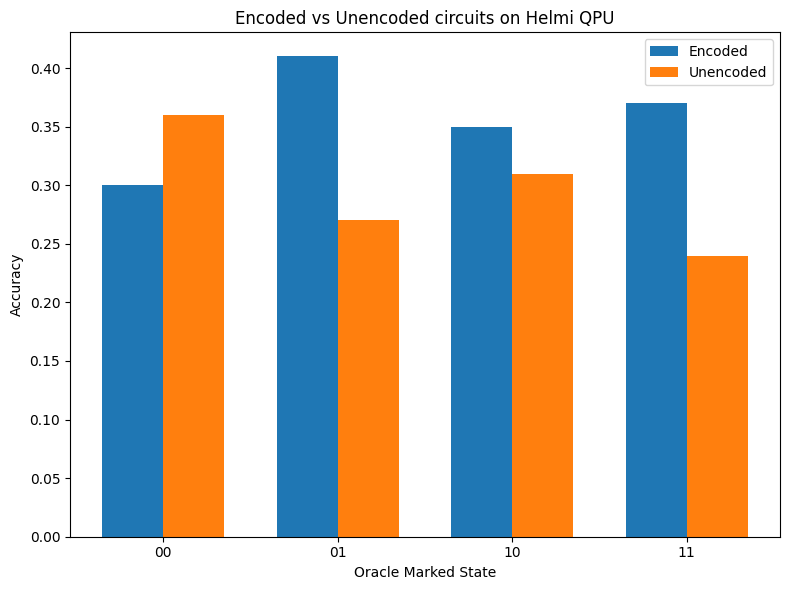
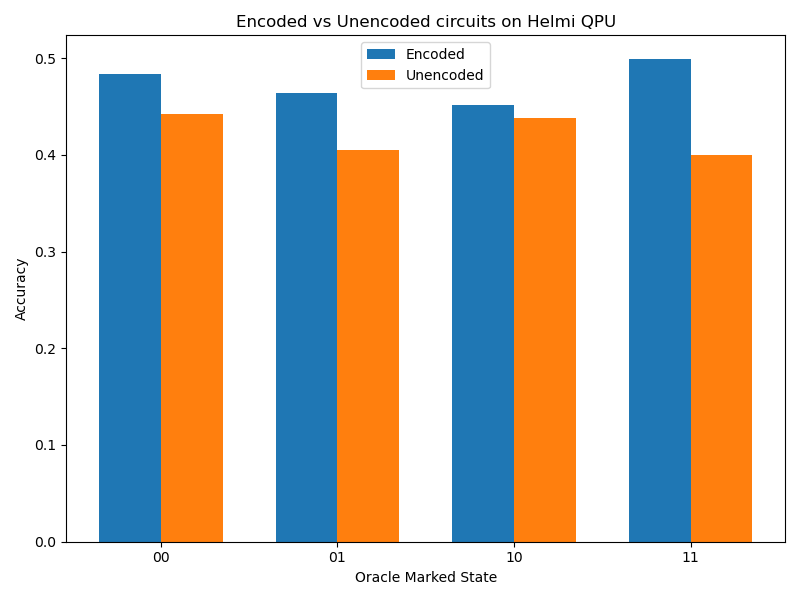
modify oracle

Changed region(s): [[0.0, 0.0, 1.0, 0.9763]]

diff --git a/grover_circuit_generator_2q.py b/grover_circuit_generator_2q.py
@@ -170,8 +170,8 @@ def oracle(circ, bitstring):
         circ.x(2)
         circ.barrier()
 
-        circ.z(1)
-        circ.z(2)
+        #circ.z(1)
+        #circ.z(2)
         circ.rz(np.pi / 2, 0)
         circ.rz(np.pi / 2, 1)
         circ.rz(np.pi / 2, 2)
@@ -186,8 +186,8 @@ def oracle(circ, bitstring):
         circ.x(0)
         circ.x(2)
         circ.barrier()
-        circ.z(1)
-        circ.z(2)
+        #circ.z(1)
+        #circ.z(2)
         circ.rz(np.pi / 2, 0)
         circ.rz(np.pi / 2, 1)
         circ.rz(np.pi / 2, 2)
@@ -201,8 +201,8 @@ def oracle(circ, bitstring):
         circ.x(0)
         circ.x(1)
         circ.barrier()
-        circ.z(1)
-        circ.z(2)
+        #circ.z(1)
+        #circ.z(2)
         circ.rz(np.pi / 2, 0)
         circ.rz(np.pi / 2, 1)
         circ.rz(np.pi / 2, 2)
@@ -214,8 +214,8 @@ def oracle(circ, bitstring):
         
     if bitstring == "11":
         circ.barrier()
-        circ.z(1)
-        circ.z(2)
+        #circ.z(1)
+        #circ.z(2)
         circ.rz(np.pi / 2, 0)
         circ.rz(np.pi / 2, 1)
         circ.rz(np.pi / 2, 2)
